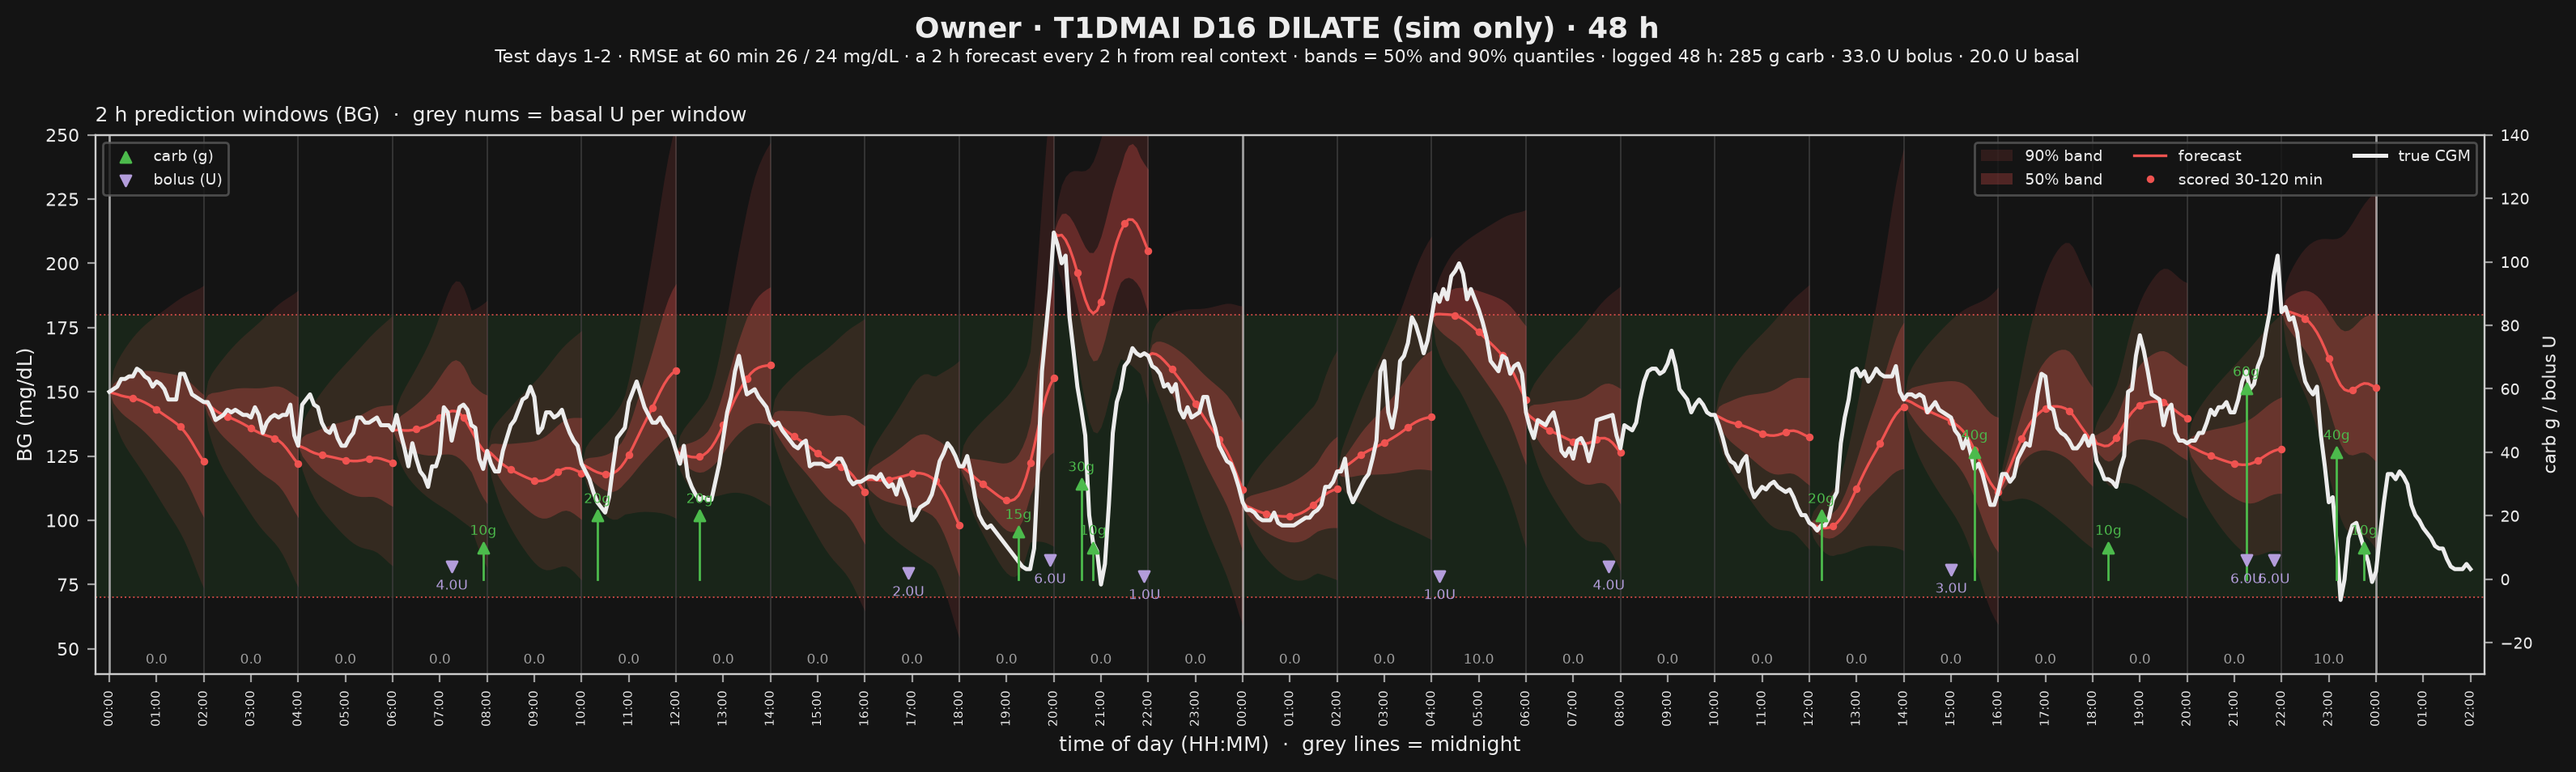
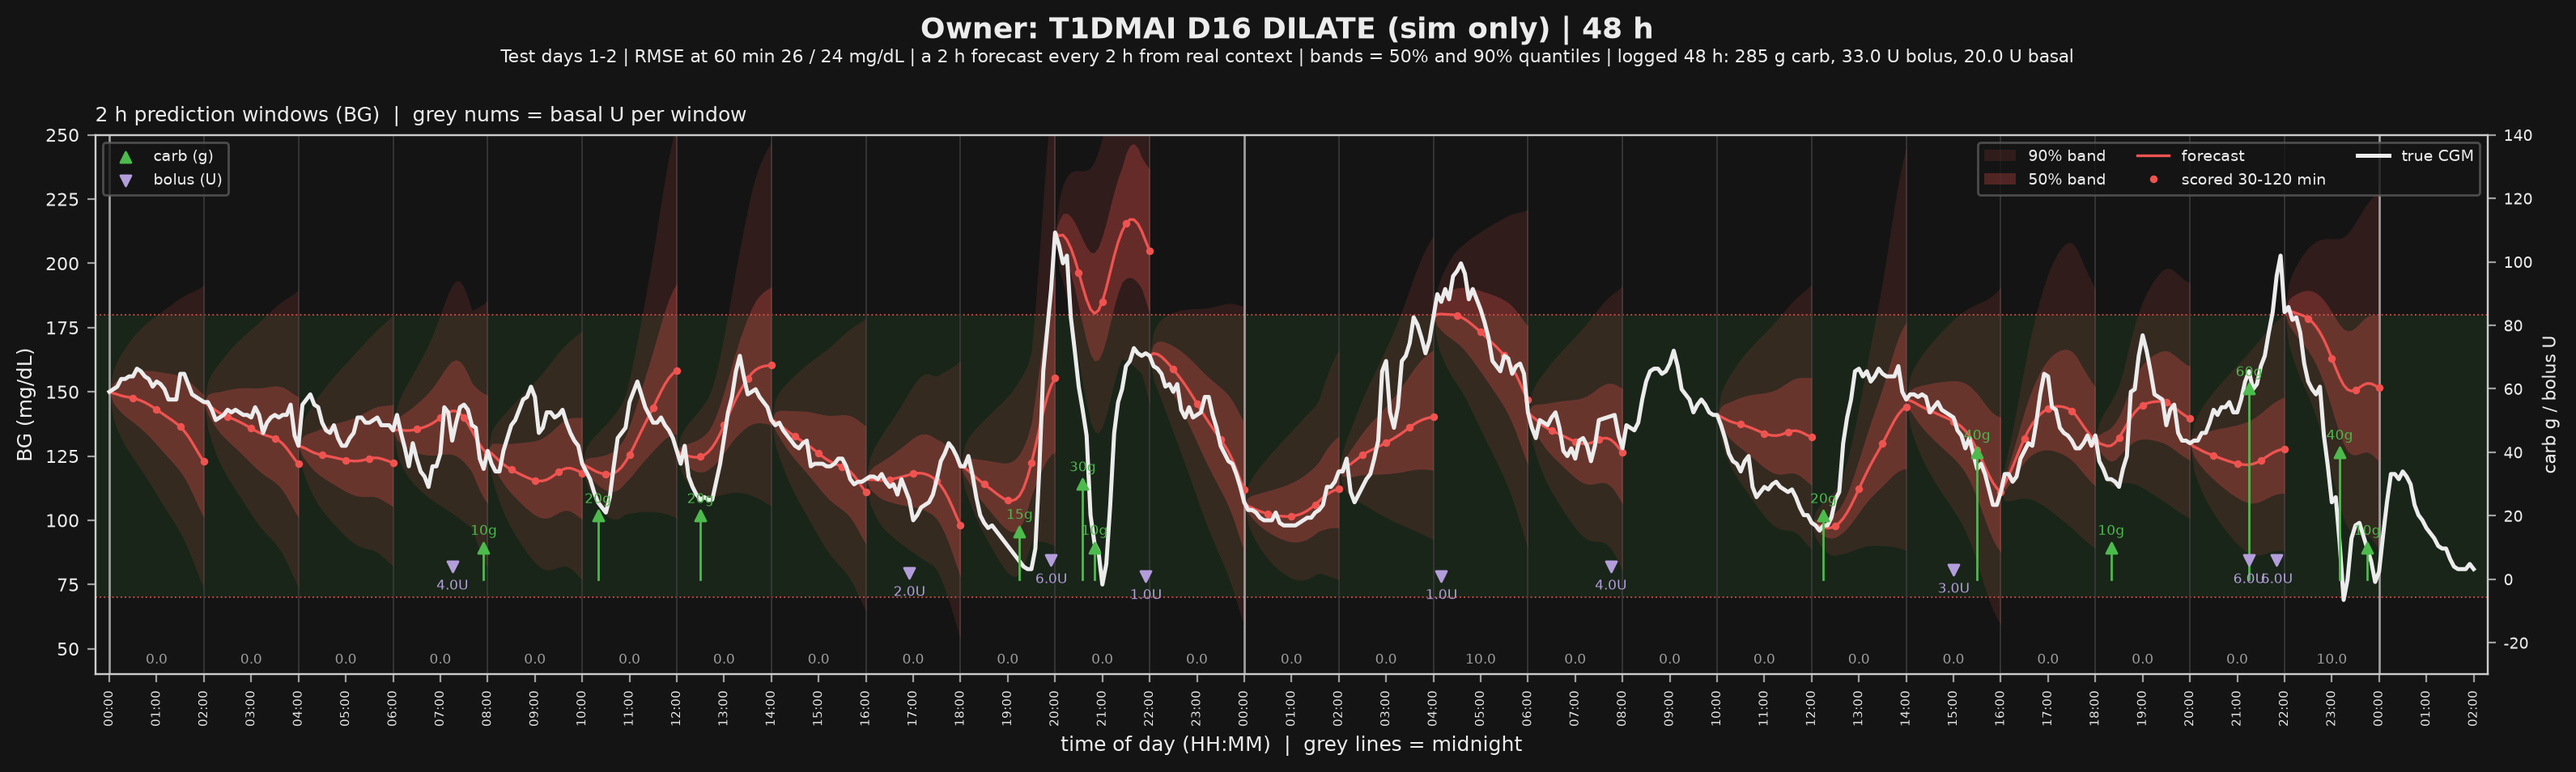
Mark doses on the example-window grids and keep figure text ASCII-only
Claude-Session: https://claude.ai/code/session_01PhTL2VPh4nwEVVYKUp34tg

diff --git a/leaderboard.py b/leaderboard.py
@@ -7,6 +7,7 @@ MANIFEST: {"cost"?, "figures", "tracks": {NAME: {"title", "truth", "time_gain", 
 from __future__ import annotations
 
 import argparse
+import functools
 import json
 import os
 
@@ -47,6 +48,7 @@ STYLE = {
     'ytick.right': False, 'xtick.major.size': 3.5, 'ytick.major.size': 3.5,
     'xtick.major.width': 0.8, 'ytick.major.width': 0.8, 'lines.linewidth': 1.2,
     'lines.markersize': 4.5, 'legend.frameon': True, 'savefig.dpi': 200,
+    'axes.unicode_minus': False,
 }
 MARKERS = ('o', 's', '^', 'D', 'v')
 _THEME = 'dark'
@@ -302,7 +304,10 @@ def traces(spec: dict, d: dict, rows: list[dict], n: int = 9) -> dict:
                 used.add(unit[cand[hit[0]]])
                 break
     out = []
+    seen = spec.get('future_doses') != 'zero'
     for r in picks:
+        ev = _subject_events(spec['cache'], str(d['keys'][r])) if spec.get('cache') else None
+        doses = {'future_seen': seen, **_window_doses(ev, int(d['ts'][r]))} if ev else {}
         tts, v = d['cgm'][d['keys'][r]]
         sel = (tts >= d['ts'][r] - 3600) & (tts <= d['ts'][r] + 7200)
         fut = v[sel & (tts >= d['ts'][r])]
@@ -312,7 +317,7 @@ def traces(spec: dict, d: dict, rows: list[dict], n: int = 9) -> dict:
         out.append({'name': name, 'hhmm': f'{sec // 3600:02d}:{sec % 3600 // 60:02d}',
                     'swing': float(np.nanmax(fut) - np.nanmin(fut)), 'bg': float(o[r]),
                     'cgm_min': ((tts[sel] - d['ts'][r]) / 60).tolist(), 'cgm': v[sel].tolist(),
-                    **_curve(d, i, key, r)})
+                    **_curve(d, i, key, r), **doses})
     return {'key': key, 'label': spec['entries'][i]['label'], 'windows': out}
 
 
@@ -331,12 +336,19 @@ def clarke(spec: dict, d: dict, rows: list[dict], n: int = 1000) -> dict:
     return {'key': key, 'label': spec['entries'][i]['label'], 'h': out}
 
 
-def _subject_events(cache_dir: str, key: str) -> tuple:
-    """(t0 epoch s, carb g, bolus U, basal U), each dose per 5-min slot, for one subject."""
+@functools.lru_cache(maxsize=None)
+def _finetune_cache(cache_dir: str):
     from finetune_data import FinetuneCache
-    cache = FinetuneCache(cache_dir)
+    return FinetuneCache(cache_dir)
+
+
+def _subject_events(cache_dir: str, key: str) -> tuple | None:
+    """(t0 epoch s, carb g, bolus U, basal U), each dose per 5-min slot; None if absent."""
+    cache = _finetune_cache(cache_dir)
     src, sid = key.split('\x1f')
-    rec = next(r for r in cache.subjects if (r['source'], str(r['sid'])) == (src, sid))
+    rec = next((r for r in cache.subjects if (r['source'], str(r['sid'])) == (src, sid)), None)
+    if rec is None:
+        return None
     ch = cache.channels(rec, 0, int(rec['n']))
     return (int(rec['t0']),) + tuple(np.nan_to_num(np.asarray(ch[c], np.float64))
                                      for c in ('carb_g', 'bolus_u', 'basal_u'))
@@ -351,6 +363,18 @@ def _day_rmse(d: dict, i: int) -> list[tuple[float, int]]:
         if sel.sum() >= 250:
             out.append((float(np.sqrt(np.mean((p60[sel] - t60[sel]) ** 2))), int(day)))
     return sorted(out)
+
+
+def _window_doses(ev: tuple, ts: int, lo: int = -60, hi: int = 120) -> dict:
+    """Logged doses in [ts+lo, ts+hi] min as [[minute, dose]]; basal only if injected (MDI)."""
+    e0, carb, bolus, basal = ev
+    k0 = int(round((ts - e0) / 300))
+    ks = np.arange(max(k0 + lo // 5, 0), min(k0 + hi // 5 + 1, len(carb)))
+    chans = [('carbs', carb), ('boluses', bolus)]
+    if np.count_nonzero(basal) <= 4 * len(basal) / 288:
+        chans.append(('basal_inj', basal))
+    return {name: [[float(5 * (k - k0)), float(ch[k])] for k in ks if ch[k] > 0]
+            for name, ch in chans}
 
 
 def day_blocks(spec: dict, d: dict, n_blocks: int = 2, every_h: int = 2) -> dict:
@@ -950,6 +974,41 @@ def _path(o: dict) -> tuple:
     return np.array((0,) + HORIZONS), np.r_[o['bg'], o['pred']], band
 
 
+def _dose_marks(th):
+    """(key, color, marker, label format, legend) per dose kind."""
+    return (('carbs', th['cat'][2], '^', '{:.0f}g', 'carb (g)'),
+            ('boluses', th['fam']['Foundation'], 'v', '{:.1f}U', 'bolus (U)'),
+            ('basal_inj', th['ink2'], 'v', 'B {:.0f}U', 'basal (U)'))
+
+
+def _dose_axis(ax, th, b, fs=6, unseen_after=None):
+    """Right axis with carb stems and bolus/basal marks; hollow past ``unseen_after``."""
+    ax2 = ax.twinx()
+    ax2.set_ylim(-30, 140)
+    for s in ax2.spines.values():
+        s.set_color(th['spine'])
+    ax2.tick_params(colors=th['ink2'], labelcolor=th['ink'], labelsize=7)
+    for key, color, marker, fmt, lab in _dose_marks(th):
+        pts = b.get(key) or []
+        for x, y in pts:
+            if key == 'carbs':
+                ax2.plot((x, x), (0, y), color=color, lw=1.0)
+                ax2.text(x, y + 3, fmt.format(y), ha='center', va='bottom', fontsize=fs,
+                         color=color)
+            else:
+                up = key == 'basal_inj'
+                ax2.text(x, y + 4 if up else y - 4, fmt.format(y), ha='center',
+                         va='bottom' if up else 'top', fontsize=fs, color=color)
+        seen = [p for p in pts if unseen_after is None or p[0] <= unseen_after]
+        unseen = [p for p in pts if p not in seen]
+        if seen:
+            ax2.scatter(*zip(*seen), marker=marker, s=22, color=color, label=lab, zorder=4)
+        if unseen:
+            ax2.scatter(*zip(*unseen), marker=marker, s=22, facecolors='none',
+                        edgecolors=color, linewidths=1.0, zorder=4)
+    return ax2
+
+
 def fig_traces(ex, title, stem):
     """Example windows: CGM before and after, the forecast path, its scored 30-120 min points."""
     import matplotlib.pyplot as plt
@@ -961,8 +1020,16 @@ def fig_traces(ex, title, stem):
     nr = -(-len(ws) // 3)
     fig, axs = plt.subplots(nr, 3, figsize=(12, 2.7 * nr), squeeze=False)
     blue, red = th['cat'][0], th['fam']['T1DMAI']
-    for ax, w in zip(axs.flat, ws):
+    for k, (ax, w) in enumerate(zip(axs.flat, ws)):
         _box(fig, ax, th)
+        if 'carbs' in w:
+            ax2 = _dose_axis(ax, th, w, fs=5.5, unseen_after=None if w['future_seen'] else 0)
+            ax2.tick_params(labelsize=6, labelright=k % 3 == 2)
+            if k % 3 == 2:
+                ax2.set_ylabel('g / U', color=th['ink'], fontsize=7)
+            ax2.set_facecolor(ax.get_facecolor())
+            ax.set_zorder(ax2.get_zorder() + 1)
+            ax.patch.set_visible(False)
         for y in (70, 180):
             ax.axhline(y, color=th['grid'], lw=0.7, zorder=0)
         ax.axvline(0, color=th['grid'], lw=0.9, zorder=0)
@@ -976,15 +1043,29 @@ def fig_traces(ex, title, stem):
         ax.set_xlim(-65, 125)
         ax.set_xticks(range(-60, 121, 30))
         ax.tick_params(labelsize=7)
-        ax.set_title(tex(f"{w['name']} · swing {w['swing']:.0f} mg/dL · {w['hhmm']}"),
+        ax.set_title(tex(f"{w['name']} | swing {w['swing']:.0f} mg/dL | {w['hhmm']}"),
                      fontsize=8.5, color=th['ink'])
     for ax in axs.flat[len(ws):]:
         ax.set_visible(False)
-    _legend(axs.flat[0], th, loc='best', fontsize=7)
+    from matplotlib.lines import Line2D
+    hs, ls = axs.flat[0].get_legend_handles_labels()
+    for key, color, marker, _, lab in _dose_marks(th):
+        if any(w.get(key) for w in ws):
+            hs.append(Line2D([], [], ls='none', marker=marker, color=color))
+            ls.append(lab)
+    if any(not w.get('future_seen', True) and any(p[0] > 0 for k in ('carbs', 'boluses')
+                                                   for p in w.get(k, [])) for w in ws):
+        hs.append(Line2D([], [], ls='none', marker='v', markerfacecolor='none',
+                         color=th['ink2']))
+        ls.append('dose after 0 (not given to model)')
+    leg = fig.legend(hs, ls, loc='upper center', bbox_to_anchor=(0.5, 0.965), ncols=len(hs),
+                     fontsize=7, frameon=False)
+    for t in leg.get_texts():
+        t.set_color(th['ink'])
     fig.supxlabel('minutes from prediction start', color=th['ink'], fontsize=9)
     fig.supylabel('BG (mg/dL)', color=th['ink'], fontsize=9)
-    fig.suptitle(tex(f"{title} · {tr['label']}"), color=th['ink'], fontsize=11)
-    fig.tight_layout()
+    fig.suptitle(tex(f"{title} | {tr['label']}"), color=th['ink'], fontsize=11, y=0.995)
+    fig.tight_layout(rect=(0, 0, 1, 0.95))
     _save(fig, stem, _THEME)
     plt.close(fig)
 
@@ -1029,7 +1110,7 @@ def fig_clarke(ex, title, stem):
                      color=th['ink'])
         ax.set_xlabel('reference CGM (mg/dL)', fontsize=8)
     np.atleast_1d(axs)[0].set_ylabel('predicted BG (mg/dL)', fontsize=8)
-    fig.suptitle(tex(f"{title} · {cl['label']}"), color=th['ink'], fontsize=11)
+    fig.suptitle(tex(f"{title} | {cl['label']}"), color=th['ink'], fontsize=11)
     fig.tight_layout()
     _save(fig, stem, _THEME)
     plt.close(fig)
@@ -1043,7 +1124,7 @@ def fig_days(ex, arch, block, title, stem):
     if not blocks:
         return
     b = blocks[block]
-    red, green, purple = th['fam']['T1DMAI'], th['cat'][2], th['fam']['Foundation']
+    red, green = th['fam']['T1DMAI'], th['cat'][2]
     every = b['every_h']
     fig, ax = plt.subplots(figsize=(16, 4.8))
     _box(fig, ax, th)
@@ -1074,40 +1155,25 @@ def fig_days(ex, arch, block, title, stem):
     ax.set_ylabel('BG (mg/dL)')
     ax.set_xticks(range(0, 51))
     ax.set_xticklabels([f'{h % 24:02d}:00' for h in range(0, 51)], rotation=90, fontsize=5.5)
-    ax.set_xlabel('time of day (HH:MM)  ·  grey lines = midnight')
+    ax.set_xlabel('time of day (HH:MM)  |  grey lines = midnight')
     for w, uph in b.get('basal', []):
         ax.text(w + every / 2, 43, f'{uph:.1f}', ha='center', va='bottom', fontsize=6,
                 color=th['ink2'])
     _legend(ax, th, loc='upper right', ncols=3, fontsize=7)
-    sub = (f"Test days {b['days'][0]}-{b['days'][1]} · RMSE at 60 min {b['rmse'][0]:.0f} / "
-           f"{b['rmse'][1]:.0f} mg/dL · a 2 h forecast every {every} h from real context · "
+    sub = (f"Test days {b['days'][0]}-{b['days'][1]} | RMSE at 60 min {b['rmse'][0]:.0f} / "
+           f"{b['rmse'][1]:.0f} mg/dL | a 2 h forecast every {every} h from real context | "
            f"bands = 50% and 90% quantiles")
     if 'carbs' in b:
-        ax2 = ax.twinx()
-        ax2.set_ylim(-30, 140)
-        for s in ax2.spines.values():
-            s.set_color(th['spine'])
-        ax2.tick_params(colors=th['ink2'], labelcolor=th['ink'], labelsize=7)
+        ax2 = _dose_axis(ax, th, b)
         ax2.set_ylabel('carb g / bolus U', color=th['ink'], fontsize=8)
-        for h, g in b['carbs']:
-            ax2.plot((h, h), (0, g), color=green, lw=1.0)
-            ax2.text(h, g + 3, f'{g:.0f}g', ha='center', va='bottom', fontsize=6, color=green)
-        for h, u in b['boluses']:
-            ax2.text(h, u - 4, f'{u:.1f}U', ha='center', va='top', fontsize=6, color=purple)
-        if b['carbs']:
-            ax2.scatter(*zip(*b['carbs']), marker='^', s=22, color=green, label='carb (g)',
-                        zorder=4)
-        if b['boluses']:
-            ax2.scatter(*zip(*b['boluses']), marker='v', s=22, color=purple, label='bolus (U)',
-                        zorder=4)
         if b['carbs'] or b['boluses']:
             _legend(ax2, th, loc='upper left', fontsize=7)
-        ax.set_title('2 h prediction windows (BG)  ·  grey nums = basal U per window',
+        ax.set_title('2 h prediction windows (BG)  |  grey nums = basal U per window',
                      loc='left', fontsize=9, color=th['ink'])
-        sub += (f" · logged 48 h: {sum(g for _, g in b['carbs']):.0f} g carb · "
-                f"{sum(u for _, u in b['boluses']):.1f} U bolus · {b['basal_total']:.1f} U basal")
+        sub += (f" | logged 48 h: {sum(g for _, g in b['carbs']):.0f} g carb, "
+                f"{sum(u for _, u in b['boluses']):.1f} U bolus, {b['basal_total']:.1f} U basal")
     fig.tight_layout(rect=(0, 0, 1, 0.9))
-    fig.suptitle(tex(f'{title} · 48 h'), color=th['ink'], fontsize=13, fontweight='bold', y=0.985)
+    fig.suptitle(tex(f'{title} | 48 h'), color=th['ink'], fontsize=13, fontweight='bold', y=0.985)
     fig.text(0.5, 0.925, tex(sub), ha='center', fontsize=8, color=th['ink'])
     _save(fig, stem, _THEME)
     plt.close(fig)
